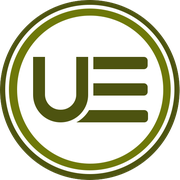
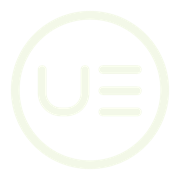
Use new UE master monogram for Private/USSI share link previews.
Replace old circular UE SYSTEMS mark in og/twitter/apple-touch icons so
iMessage compact cards show the current monogram next to USSI Communication.

diff --git a/UnityEnergy/customer-portal/foster-farms/executive/share/private.html b/UnityEnergy/customer-portal/foster-farms/executive/share/private.html
@@ -33,12 +33,12 @@
   <meta property="og:title" content="Private Confidential | Unity Energy" />
   <meta property="og:description" content="Private Confidential | Unity Energy" />
   <meta property="og:url" content="https://unityenergy.com/UnityEnergy/customer-portal/foster-farms/executive/share/private.html?ue_doc=UE.0614.01" />
-  <meta property="og:image" content="https://unityenergy.com/UnityEnergy/assets/images/ue-og-share-1200.png?v=20261104-monogram-dg-1" />
+  <meta property="og:image" content="https://unityenergy.com/UnityEnergy/assets/images/ue-master-monogram.png?v=20261104-ussi-mono-1" />
   <meta property="og:image:alt" content="Private Confidential | Unity Energy share card" />
   <meta property="twitter:card" content="summary_large_image" />
   <meta property="twitter:title" content="Private Confidential | Unity Energy" />
   <meta property="twitter:description" content="Private Confidential | Unity Energy" />
-  <meta property="twitter:image" content="https://unityenergy.com/UnityEnergy/assets/images/share-card-bases/PrivateConfidential.png?ue_doc=UE.0601.01&ue_img=UEPRIVATECONFIDENTIAL" />
+  <meta property="twitter:image" content="https://unityenergy.com/UnityEnergy/assets/images/ue-master-monogram.png?v=20261104-ussi-mono-1" />
   <script>
     (function () {
       const SHARE_KIND = "private";
@@ -126,6 +126,7 @@
     })();
   </script>
 <script src="../../../../public_release_flags.js?v=20260901a"></script>
+  <link rel="apple-touch-icon" href="https://unityenergy.com/UnityEnergy/apple-touch-icon.png?v=20261104-ussi-mono-1" />
 </head>
 <body>
   Redirecting to the private executive link…

diff --git a/UnityEnergy/customer-portal/foster-farms/executive/share/private-2025-cherry-energy-regulatory.html b/UnityEnergy/customer-portal/foster-farms/executive/share/private-2025-cherry-energy-regulatory.html
@@ -9,12 +9,12 @@
   <meta property="og:title" content="2025 Cherry Energy Regulatory" />
   <meta property="og:description" content="2025 Cherry Energy Regulatory" />
   <meta property="og:url" content="https://unityenergy.com/UnityEnergy/customer-portal/foster-farms/executive/share/private-2025-cherry-energy-regulatory.html?ue_doc=UE.0614.01" />
-  <meta property="og:image" content="https://unityenergy.com/UnityEnergy/assets/images/ue-og-share-1200.png?v=20261104-monogram-dg-1" />
+  <meta property="og:image" content="https://unityenergy.com/UnityEnergy/assets/images/ue-master-monogram.png?v=20261104-ussi-mono-1" />
   <meta property="og:image:alt" content="2025 Cherry Energy Regulatory share card" />
   <meta property="twitter:card" content="summary_large_image" />
   <meta property="twitter:title" content="2025 Cherry Energy Regulatory" />
   <meta property="twitter:description" content="2025 Cherry Energy Regulatory" />
-  <meta property="twitter:image" content="https://unityenergy.com/UnityEnergy/assets/images/share-card-bases/PrivateConfidential.png?ue_doc=UE.0601.01&ue_img=UEPRIVATECONFIDENTIAL" />
+  <meta property="twitter:image" content="https://unityenergy.com/UnityEnergy/assets/images/ue-master-monogram.png?v=20261104-ussi-mono-1" />
   <script>
     (function () {
       const SHARE_KIND = "private";
@@ -102,6 +102,7 @@
     })();
   </script>
 <script src="../../../../public_release_flags.js?v=20260901a"></script>
+  <link rel="apple-touch-icon" href="https://unityenergy.com/UnityEnergy/apple-touch-icon.png?v=20261104-ussi-mono-1" />
 </head>
 <body>
   Redirecting to the private executive link…

diff --git a/UnityEnergy/customer-portal/foster-farms/executive/share/private-ussi-communication.html b/UnityEnergy/customer-portal/foster-farms/executive/share/private-ussi-communication.html
@@ -33,12 +33,12 @@
   <meta property="og:title" content="USSI Communication" />
   <meta property="og:description" content="USSI Communication" />
   <meta property="og:url" content="https://unityenergy.com/UnityEnergy/customer-portal/foster-farms/executive/share/private.html?ue_doc=UE.0614.01" />
-  <meta property="og:image" content="https://unityenergy.com/UnityEnergy/assets/images/ue-og-share-1200.png?v=20261104-monogram-dg-1" />
+  <meta property="og:image" content="https://unityenergy.com/UnityEnergy/assets/images/ue-master-monogram.png?v=20261104-ussi-mono-1" />
   <meta property="og:image:alt" content="USSI Communication share card" />
   <meta property="twitter:card" content="summary_large_image" />
   <meta property="twitter:title" content="USSI Communication" />
   <meta property="twitter:description" content="USSI Communication" />
-  <meta property="twitter:image" content="https://unityenergy.com/UnityEnergy/assets/images/share-card-bases/PrivateConfidential.png?ue_doc=UE.0601.01&ue_img=UEPRIVATECONFIDENTIAL" />
+  <meta property="twitter:image" content="https://unityenergy.com/UnityEnergy/assets/images/ue-master-monogram.png?v=20261104-ussi-mono-1" />
   <script>
     (function () {
       const SHARE_KIND = "private";
@@ -126,6 +126,7 @@
     })();
   </script>
 <script src="../../../../public_release_flags.js?v=20260901a"></script>
+  <link rel="apple-touch-icon" href="https://unityenergy.com/UnityEnergy/apple-touch-icon.png?v=20261104-ussi-mono-1" />
 </head>
 <body>
   Redirecting to the private executive link…
